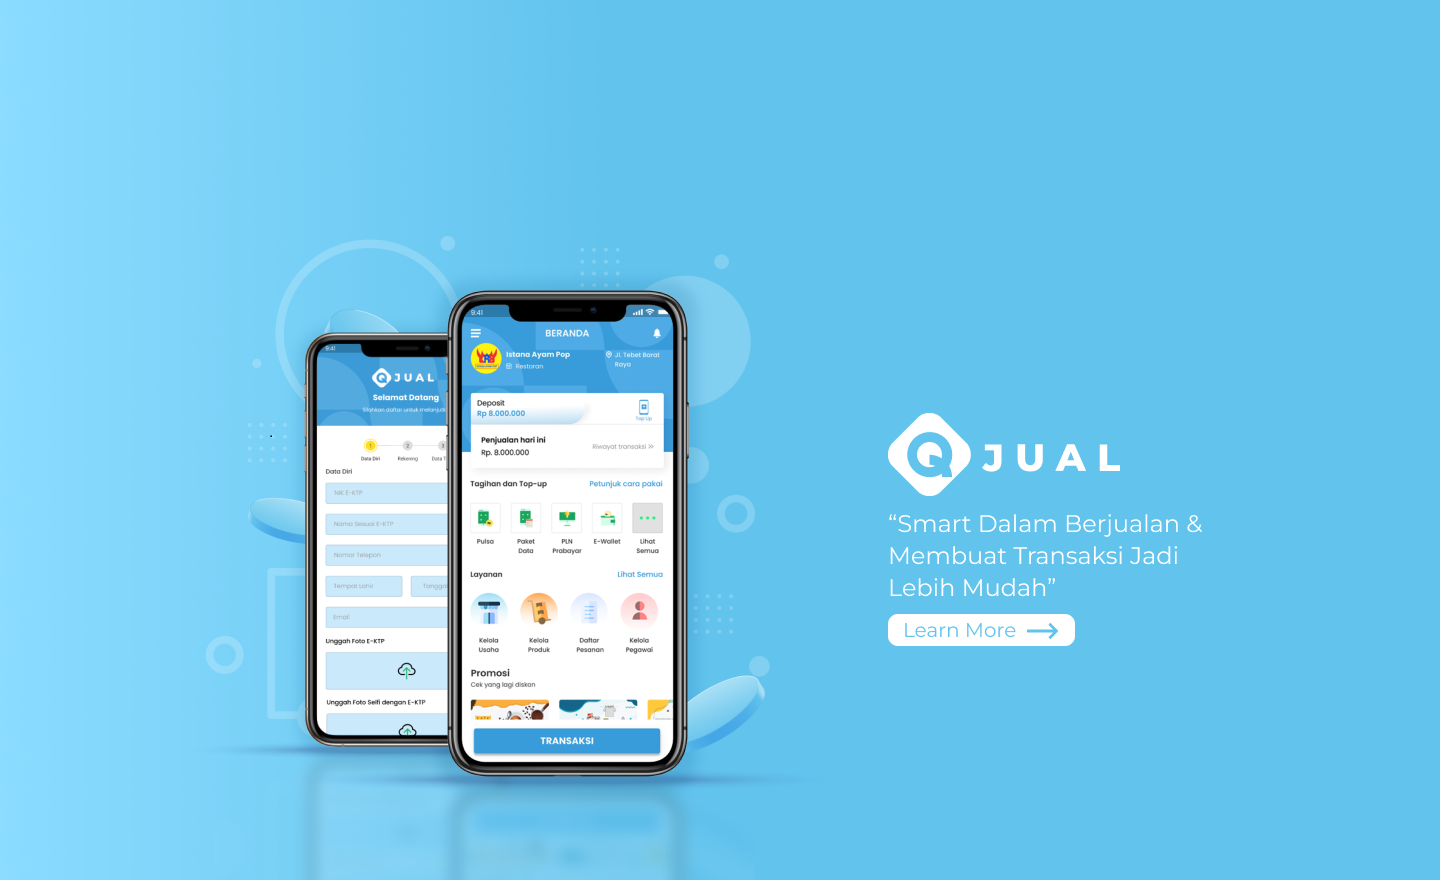
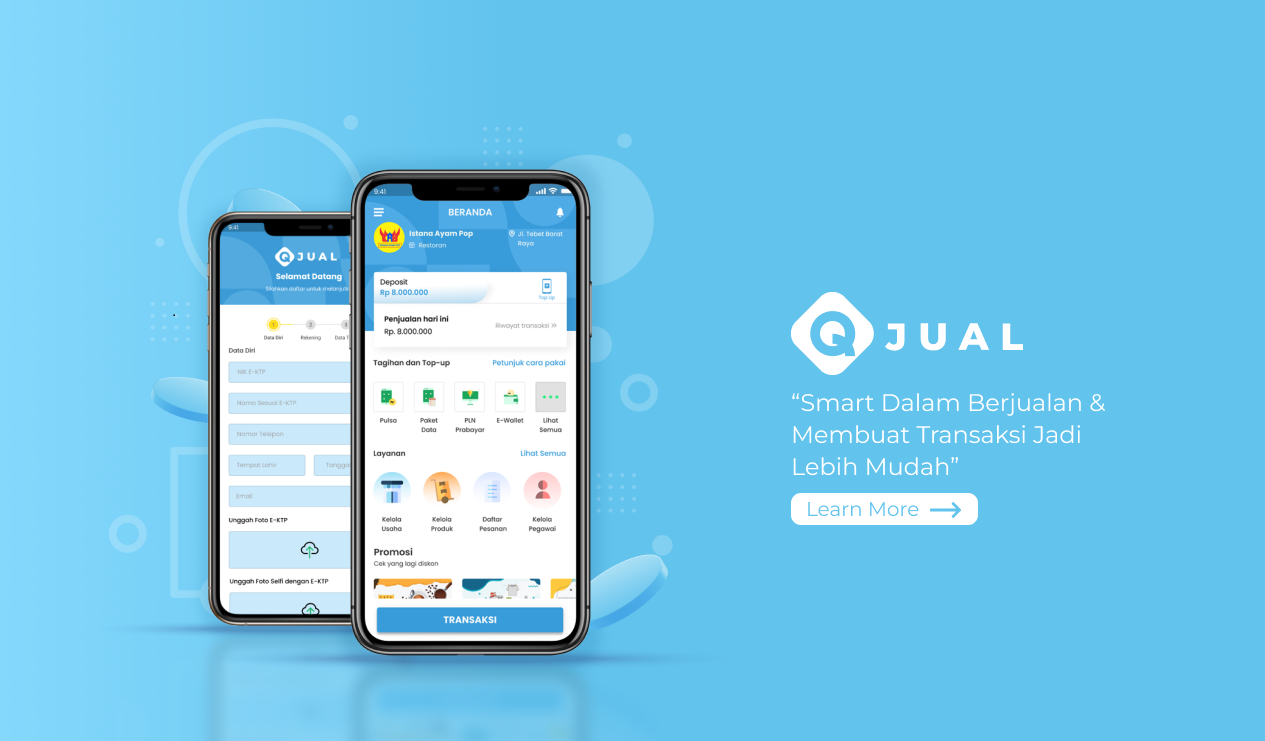
Carousel

Changed region(s): [[0.1233, 0.1862, 0.5549, 0.9312], [0.6166, 0.3725, 0.8941, 0.7449], [0.2158, 0.1552, 0.2775, 0.2173]]

diff --git a/src/App.vue b/src/App.vue
@@ -169,7 +169,7 @@ nav.navbar.navbar-expand-lg.navbar-dark.static-top{
 
 .carousel {
   position: relative;
-  max-height: 100vh;
+  max-height: 95vh;
   height: 100vh;
 
   .slide-info {
@@ -183,6 +183,7 @@ nav.navbar.navbar-expand-lg.navbar-dark.static-top{
     img {
       min-width: 100%;
       height: 100%;
+        // height: 600px;
       // object-fit: cover;
     }
   }
